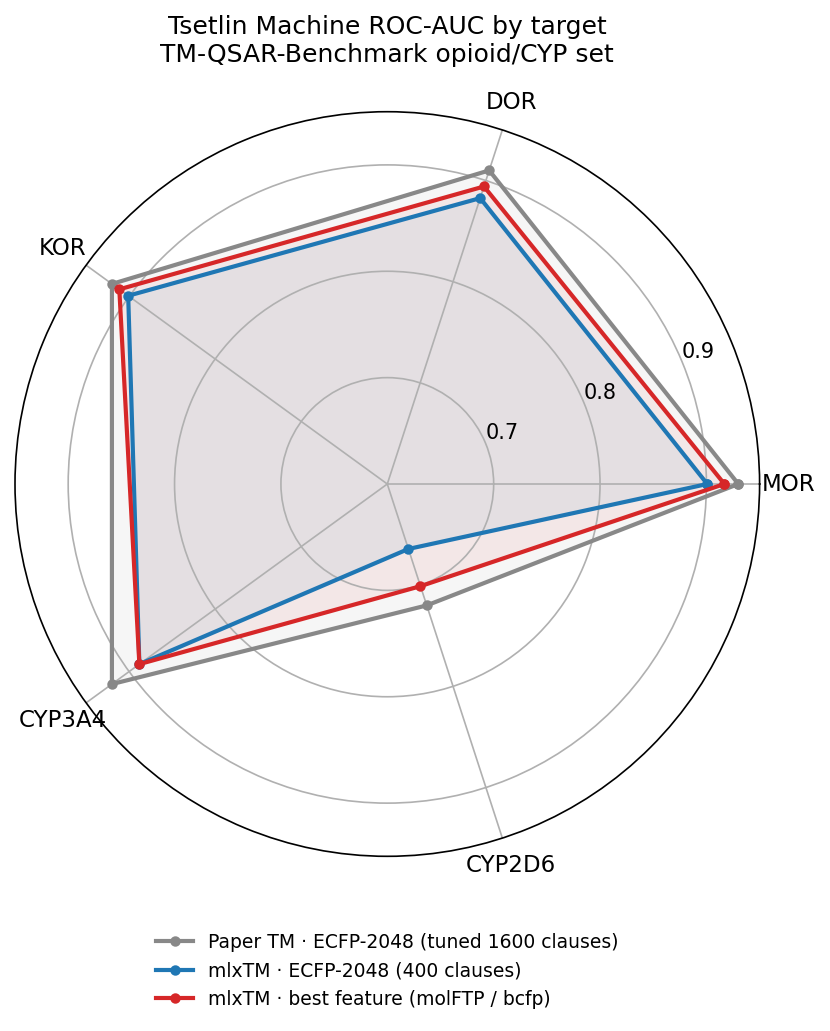
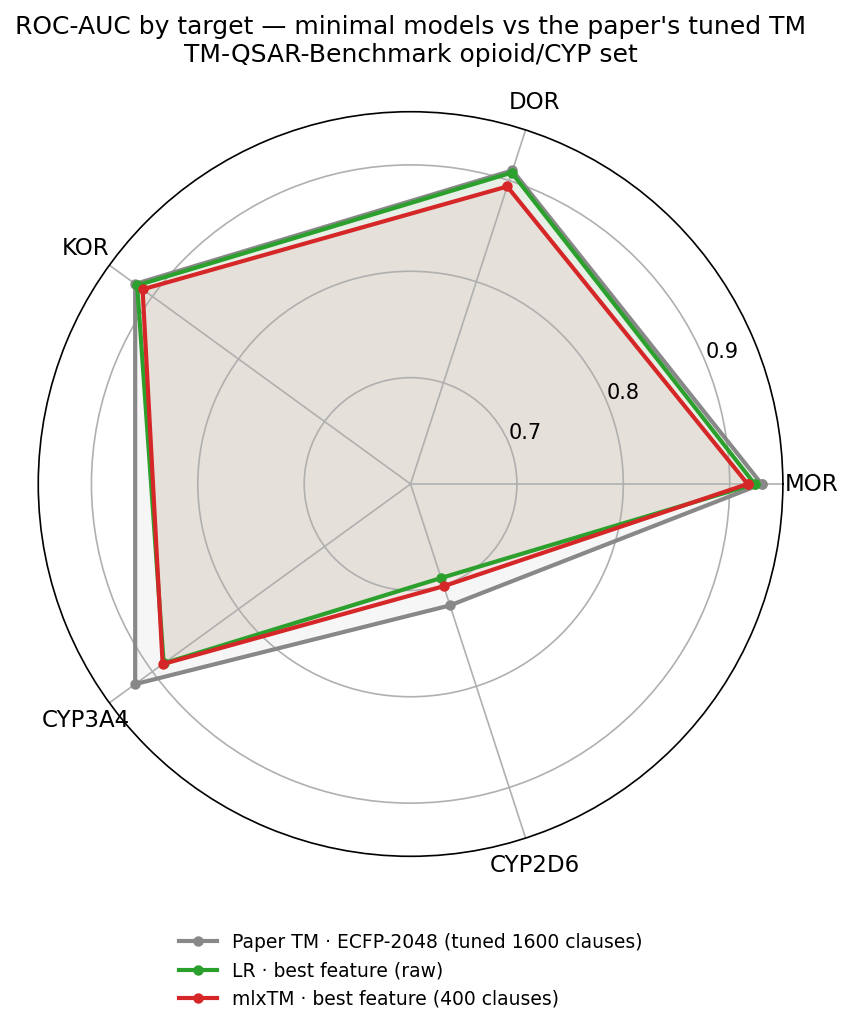
docs: add LR variant across all 6 targets + 3-model radar (LR/mlxTM vs paper)
- LR table (same six representations, logistic regression on raw features) for MDR1 + the five paper
  targets, with the paper-reference row.
- Radar now compares three models: paper TM (tuned 1600cl) vs LR (best feature) vs mlxTM (best, 400cl).
- Three-way read: best feature is model-dependent (TM->molFTP, LR->ECFP); a trivial LR on raw ECFP
  nearly matches the paper's tuned 1600-clause TM on the opioids (0.923/0.908/0.918 vs 0.93/0.91/0.92)
  and edges the minimal TM; both minimal models trail the tuned TM by ~0.01-0.03 (model strength,
  not features). No Optuna/fine-tuning used.

diff --git a/docs/launch-post.md b/docs/launch-post.md
@@ -197,20 +197,35 @@ presence-binarized unless noted). **Bold = best of ours per target:**
 | bcfp ECFP+BCFP Sort&Slice + OOV | 0.972 | 0.909 | 0.890 | 0.902 | 0.862 | **0.701** |
 | *paper TM — ECFP, tuned 1600-clause* | — | 0.93 | 0.91 | 0.92 | 0.92 | 0.72 |
 
-![ROC-AUC by target — mlxTM (our features) vs the paper's tuned ECFP→TM](figures/radar_vs_paper.png)
+**The LR variant** — the same six representations through a plain **logistic regression** on the *raw*
+vectors (no binarization; the simple-baseline role RF/XGBoost play in the paper). **Bold = best of
+ours per target:**
 
-*Read it two ways:*
+| features → Logistic Regression | MDR1 | MOR | DOR | KOR | CYP3A4 | CYP2D6 |
+|---|---|---|---|---|---|---|
+| ECFP-2048 (presence) | **0.976** | **0.923** | **0.908** | **0.918** | **0.887** | 0.675 |
+| ECFP-2048 count | 0.975 | 0.920 | 0.900 | 0.915 | 0.880 | 0.679 |
+| curated molFTP 27-d | 0.961 | 0.912 | 0.893 | 0.904 | 0.841 | 0.624 |
+| bcfp ECFP Sort&Slice + OOV | 0.973 | 0.917 | 0.890 | 0.906 | 0.885 | 0.677 |
+| bcfp BCFP Sort&Slice + OOV | 0.971 | 0.904 | 0.868 | 0.894 | 0.877 | 0.687 |
+| bcfp ECFP+BCFP Sort&Slice + OOV | 0.975 | 0.918 | 0.889 | 0.912 | 0.882 | **0.693** |
+| *paper TM — ECFP, tuned 1600-clause* | — | 0.93 | 0.91 | 0.92 | 0.92 | 0.72 |
 
-- **Features (within our TM):** **curated molFTP-27 wins all three opioids** (MOR/DOR/KOR), beating
-  the ECFP baseline; on the imbalanced CYPs it splits — ECFP edges **CYP3A4** (~2% positives) while
-  molFTP / bcfp-combo take the hard **CYP2D6** (0.70 vs ECFP's 0.66). Count-ECFP only helps MDR1.
-  The meta-lesson holds: with a rule-learner, **how you switch-ify the molecule matters**, and there's
-  no free lunch across targets. (Permutation test: no leakage.)
-- **vs. the paper (the gray ring in the radar):** their **Optuna-tuned 1600-clause / 50-epoch** TM
-  still leads our **fixed 400-clause** GPU run by **0.01–0.03 on every target** — a *model-strength*
-  gap, not a feature gap (our best feature beats their ECFP descriptor everywhere it matters). Closing
-  it is one knob away: a **clause-for-clause rematch** at their config — and since molFTP already
-  clears ECFP, that's the experiment most likely to flip the radar.
+![ROC-AUC by target — minimal models (LR, mlxTM) vs the paper's tuned ECFP→TM](figures/radar_vs_paper.png)
+
+*Read it three ways:*
+
+- **Best feature is model-dependent.** The **TM** likes **molFTP-27** (significance-scored, rule-friendly
+  — it wins all three opioids); **LR** likes **plain ECFP** (best on 5 of 6). Count-ECFP only helps MDR1,
+  and BCFP needs its ECFP partner. No free lunch across model × target.
+- **LR is the surprise.** A trivial logistic regression on raw ECFP **nearly matches the paper's
+  Optuna-tuned 1600-clause TM** on the opioids — MOR 0.923 vs 0.93, DOR 0.908 vs 0.91, KOR 0.918 vs
+  0.92 — and edges out our minimal 400-clause TM. On these targets, **a simple linear model is hard to
+  beat.**
+- **vs. the paper (the gray ring).** Both our *minimal* models trail the tuned TM by ~0.01–0.03 — a
+  *model-strength* gap (more clauses + HP search), not a feature gap; LR closes nearly all of it for
+  free. The TM's real edge here isn't a SOTA bump — it's **interpretable if-then rules running on
+  Apple's GPU.** (Permutation test: no leakage.)
 
 ## A cheat-sheet for the ML crowd
 